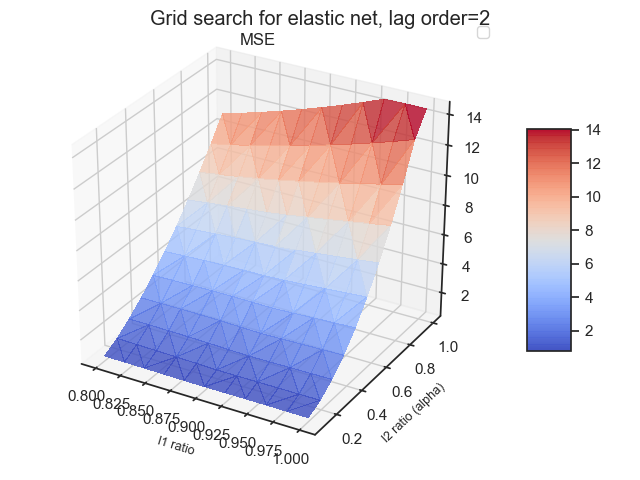
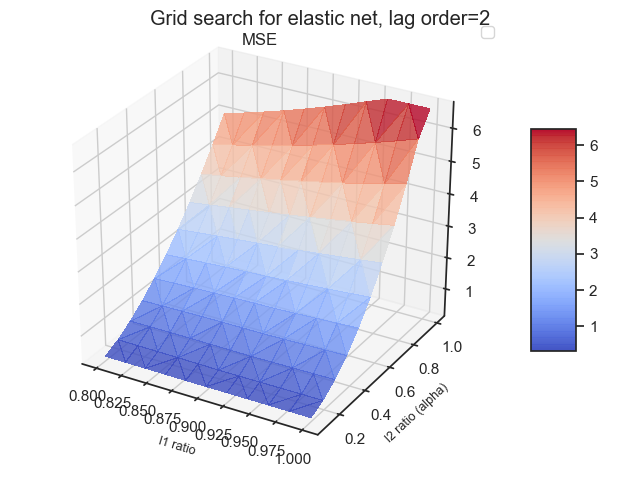
finalized elastic net, working on svm

diff --git a/src/models/train_model.py b/src/models/train_model.py
@@ -26,7 +26,7 @@ from pandas.plotting import register_matplotlib_converters
 
 BUCKET = 'macro-forecasting1301' # s3 bucket name
 TRAINING_SAMPLE_PERCENT = 0.8 # for both classical and ml models, % of sample to use as training/val. 1-% is test set.
-VALIDATION_SAMPLE_PERCENT = 0.95 # for both classical and ml models, % of the training data to use as validation set in walk-forward validation
+VALIDATION_SAMPLE_PERCENT = 0.8 # for both classical and ml models, % of the training data to use as validation set in walk-forward validation
 
 class ClassicalModels():
 
@@ -405,7 +405,7 @@ class MLModels():
                 test_X_preprocessed = pd.DataFrame(scaler_X.transform(test_X.values.reshape(1, -1)))
                 
                 for ratios in itertools.product(EN_params['l1_ratio'], EN_params['alpha']):
-                    regr = ElasticNet(random_state=42, l1_ratio=ratios[0], alpha=ratios[1], warm_start=True, fit_intercept=False)
+                    regr = ElasticNet(random_state=42, l1_ratio=ratios[0], alpha=ratios[1], warm_start=True, fit_intercept=True)
                     regr.fit(training_X_preprocessed, training_Y_preprocessed)
 
                     values = [
@@ -552,6 +552,7 @@ class MLModels():
     
         best_en = self.error_metrics_EN.iloc[self.error_metrics_EN['mse'].idxmin()].reset_index().T
         best_en.columns = best_en.iloc[0]
+        print('Found best EN hypers at: ', best_en)
 
         best_en_forecasts = self.EN_forecasts[
                                 (self.EN_forecasts.l1_ratio == best_en.l1_ratio.iloc[1]) &
@@ -564,11 +565,7 @@ class MLModels():
         best_en_forecasts['sasdate'] = pd.to_datetime(best_en_forecasts.sasdate)
         
         ax1.plot(best_en_forecasts['sasdate'], best_en_forecasts['t_actual'], color='dodgerblue', label='actual')
-        #ax1.plot(best_en_forecasts.index, best_en_forecasts['forecast_t'], color='navy', label=(
-        #    'elastic net, lag='+str(best_en_forecasts.lag)+
-        #    'l1='+str(best_en_forecasts.l1_ratio)+
-        #    'l2='+str(best_en_forecasts.alpha)+
-        #    ' forecast'), linestyle=":")
+        ax1.plot(best_en_forecasts['sasdate'], best_en_forecasts['forecast'], color='navy', label='elastic net forecast', linestyle=":")
         #ax1.plot(df_Markov['sasdate'], df_Markov['t_forecast'], color='crimson', label=('Markov switching model, lag='+str(chosen_lag_Markov)+' forecast'), linestyle=":")
 
         # Decorations
@@ -578,7 +575,6 @@ class MLModels():
         ax1.tick_params(axis='y', rotation=0, labelcolor='black' )
         ax1.grid(alpha=.4)
         plt.title('Forecast vs. Realized Values: BAAFFM', weight='bold')
-        plt.show()
 
         fig.tight_layout()
         plt.legend()
